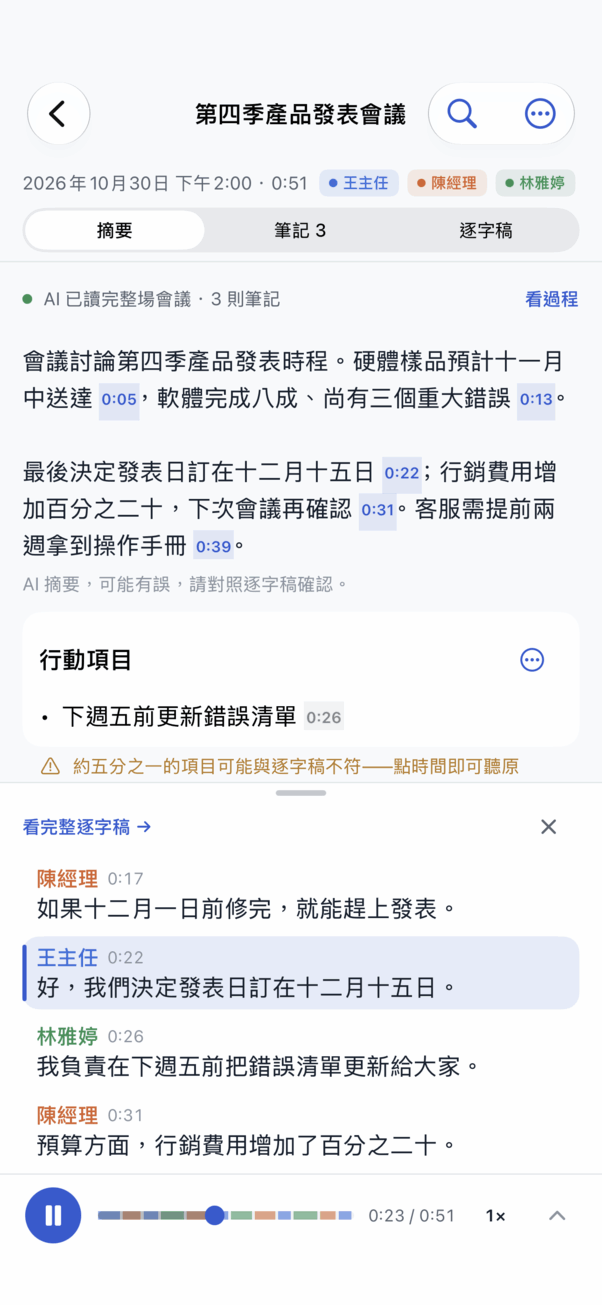
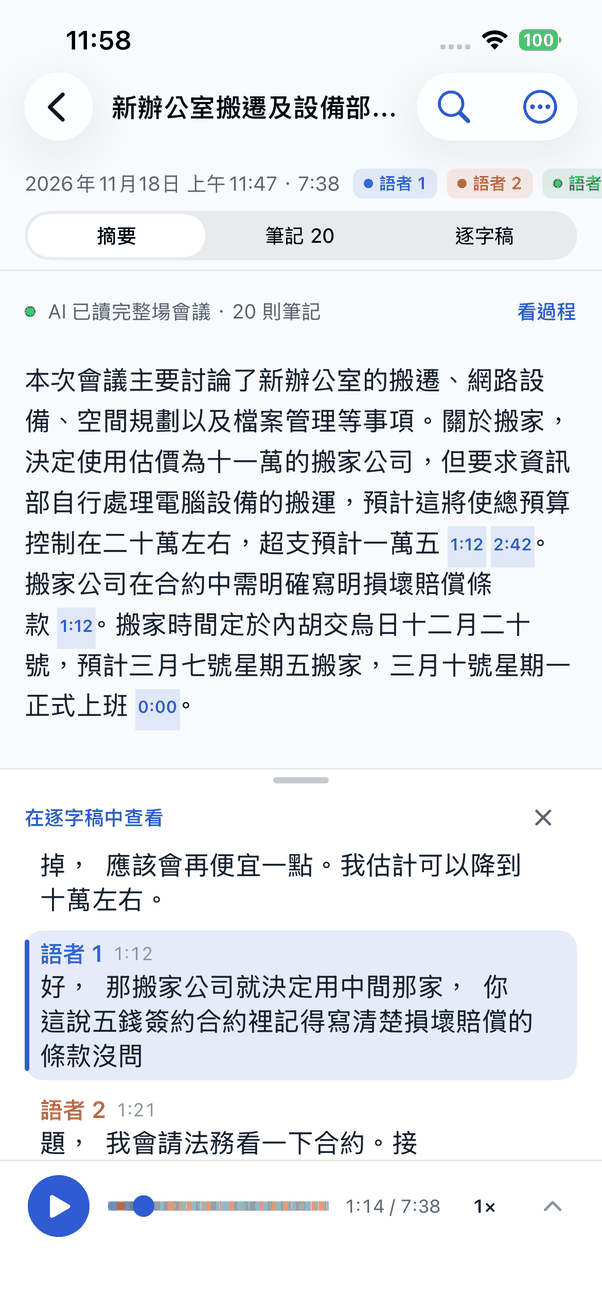
docs(ios): reshoot the citation preview with 在逐字稿中查看; guide text for search hits
- docs/guide/70-citation-preview.png, slides crop, landing cite-preview-zh.webp:
  iPhone 13, fictitious office-move demo meeting, summary anchor 1:12.
- USER_GUIDE: preview button renamed; a search hit opens the preview
  (plays from that line) and 在逐字稿中查看 jumps to the line; Return in
  library search only closes the keyboard, Ask from the suggestion row.
- Deck 簡報 v2.67, 版次 2026-11-18.

diff --git a/slides/PrimeMinutes-zh-TW.html b/slides/PrimeMinutes-zh-TW.html
@@ -138,7 +138,7 @@ table.t.rowlab tr:nth-child(even) td:first-child { background:#e8eef4; }
     </div>
   </div>
   <p style="margin-top:14px; color:#93a1af; font-size:.8em">標誌：墨色的紀錄頁，一條綠色關鍵線釘住整場的重點</p>
-  <p style="margin-top:6px; color:#93a1af; font-size:.8em">簡報 v2.66 · Android v0.56.7 · iOS 0.56.6 build 32 · 版次 2026-11-02</p>
+  <p style="margin-top:6px; color:#93a1af; font-size:.8em">簡報 v2.67 · Android v0.56.7 · iOS 0.56.6 build 32 · 版次 2026-11-18</p>
 </section>
 
 <!-- 2 問題 -->
@@ -347,7 +347,7 @@ table.t.rowlab tr:nth-child(even) td:first-child { background:#e8eef4; }
     <span class="pill">iOS TestFlight 公開測試</span>
     <span class="pill">github.com/vieenrose/PrimeMinutes</span>
   </div>
-  <p style="margin-top:14px; color:#93a1af; font-size:.8em">目前 Android v0.56.7 · iOS 0.56.6 TestFlight build 32 · 簡報 v2.66</p>
+  <p style="margin-top:14px; color:#93a1af; font-size:.8em">目前 Android v0.56.7 · iOS 0.56.6 TestFlight build 32 · 簡報 v2.67</p>
   <p style="margin-top:6px; color:#93a1af; font-size:.8em">小提醒：開會時把手機放桌子中央、靠近講話的人，分人分得最準；答案都附出處，重要的事點回原話確認一下。</p>
   <p class="lede" style="margin-top:26px">謝謝！示範與 Q&amp;A 時間。</p>
 </section>

diff --git a/docs/USER_GUIDE.md b/docs/USER_GUIDE.md
@@ -88,7 +88,7 @@ flowchart TD
 
 | 節點 | 如何到達 | 預期結果 | 驗證 |
 |---|---|---|---|
-| 提問 | 搜尋框輸入問題 → 提問；或空白時點提問，在面板輸入 | 「正在搜尋會議… N 秒」→「正在閱讀 N 段摘錄… N 秒」→「正在回答… N 秒」→ 答案逐字出現，下方列出出處（時間 · 場次 — 段落）與免責聲明；模型讀到的逐字稿摘錄標有語者（已命名的用名字，否則「語者 N」），所以能回答「誰負責…」 | ✅ 手動（iPhone 14 Pro Max：約 6 秒） |
+| 提問 | 搜尋框輸入問題 → 點建議列的「提問」（鍵盤的搜尋鍵只收起鍵盤、保留搜尋結果，不會改成提問）；或空白時點提問，在面板輸入 | 「正在搜尋會議… N 秒」→「正在閱讀 N 段摘錄… N 秒」→「正在回答… N 秒」→ 答案逐字出現，下方列出出處（時間 · 場次 — 段落）與免責聲明；模型讀到的逐字稿摘錄標有語者（已命名的用名字，否則「語者 N」），所以能回答「誰負責…」 | ✅ 手動（iPhone 14 Pro Max：約 6 秒） |
 | 點答案中的出處或下方出處 | 答案完成後 | 關閉面板，開啟該場次並從該段開頭播放 | ✅ 手動（iPhone 14 Pro Max） |
 | 回答的語言 | 用英文或中文提問 | 回答使用提問的語言（例如中文介面下用英文問，就用英文答）；問題太短或中英夾雜時跟隨介面語言 | ✅ 手動（iPhone 14 Pro Max） |
 | 繼續提問… | 面板底部輸入框 | 帶著前一輪對話追問；↻（新對話）清除對話 | ⬜ |
@@ -236,7 +236,7 @@ App 不登入任何帳號，也不直接上傳到雲端。
 | 編輯（筆形） | 編輯摘要後儲存 | ✅ 手動 |
 | 複製 | 複製摘要，提示「已複製摘要」 | ⬜ |
 | 時間點 | 點藍色時間點從該處播放（支援 `[mm:ss]` 與 `[h:mm:ss]`） | ⬜ |
-| 原話預覽 | 點時間點後，播放器上方跳出被引用的那幾句：引用的那句反白，後面的句子跟著播放捲動；**看完整逐字稿 →** 跳到逐字稿分頁的同一句，✕ 或一陣子沒操作就收起 | ✅ 手動（iPhone 14 Pro Max） |
+| 原話預覽 | 點時間點後，播放器上方跳出被引用的那幾句：引用的那句反白，後面的句子跟著播放捲動；**在逐字稿中查看** 跳到逐字稿分頁的同一句，✕ 或一陣子沒操作就收起 | ✅ 手動（iPhone 14 Pro Max） |
 | 待辦事項 | 開啟「顯示待辦事項」時出現；超過 8 行可展開；可複製 | ✅ 手動 |
 | 沒有摘要 | 顯示「沒有偵測到語音」或「尚無摘要」說明 | ⬜ |
 | 沒有可記的內容 | 摘要只有一行「這段錄音沒有需要記下的事項」 | ⬜ |
@@ -269,7 +269,7 @@ App 不登入任何帳號，也不直接上傳到雲端。
 
 <p><img src="screenshots/meeting-search-zh.png" width="200" alt="搜尋這場會議：AI 筆記與逐字稿的結果清單"> <img src="screenshots/meeting-ask-zh.png" width="200" alt="問這場會議：先前的問題與新的回答"> <img src="screenshots/meeting-search-ask.gif" width="200" alt="搜尋「紙箱什麼時候發」後按 ✦ 提問"></p>
 
-搜尋列下方列出這場會議符合的 **AI 筆記** 與 **逐字稿** 句子（各依時間排序，標示 **≈** 的是依語意找到的）；點一筆就捲到那句並把播放位置停在那裡。**✦**（搜尋列、結果清單最後一列、⋯ 選單的「問這場會議」）只拿這場會議的段落作答；出處只顯示時間；摘錄以說話者名字交給模型，所以「誰負責…」的問題能回答人名。設計與預設值：[docs/design/in-session-search-ask.md](design/in-session-search-ask.md)。錄音中與處理中都還不能搜尋逐字稿，請在會議完成後使用。
+搜尋列下方列出這場會議符合的 **AI 筆記** 與 **逐字稿** 句子（各依時間排序，標示 **≈** 的是依語意找到的）；點一筆就打開和摘要時間點一樣的原話預覽（從那句開始播放），預覽上的 **在逐字稿中查看** 再跳到逐字稿的那一句；首頁搜尋結果的時間點也一樣。**✦**（搜尋列、結果清單最後一列、⋯ 選單的「問這場會議」）只拿這場會議的段落作答；出處只顯示時間；摘錄以說話者名字交給模型，所以「誰負責…」的問題能回答人名。設計與預設值：[docs/design/in-session-search-ask.md](design/in-session-search-ask.md)。錄音中與處理中都還不能搜尋逐字稿，請在會議完成後使用。
 
 | 節點 | 如何到達 | 預期結果 | 驗證 |
 |---|---|---|---|
